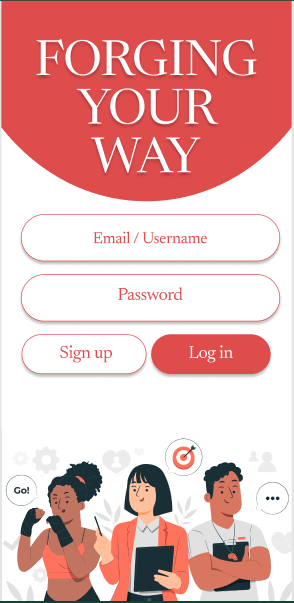
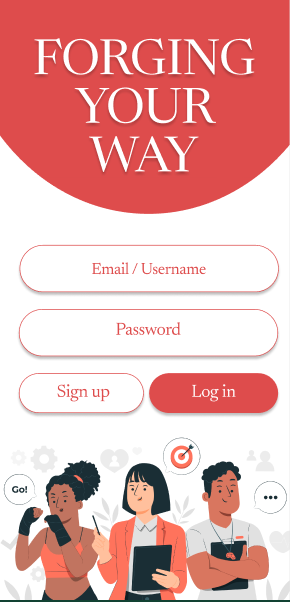
update mainscreen and add labels in prototype

diff --git a/README.md b/README.md
@@ -6,8 +6,8 @@ A flutter based career counseling app.
 
 | | | |
 |:-------------------------:|:-------------------------:|:-------------------------:|
-|<img width="1604" alt="desktop" src="./dribbble-UI/communities_snip.png"> |  <img width="1604" alt="b_top, neofetch, tmux" src="./dribbble-UI/main_snip.png">|  <img width="1604" alt="b_top, neofetch, tmux" src="./dribbble-UI/consultation_snip.png">|
-|<img width="1604" alt="display-manager" src="./dribbble-UI/profile_snip.png">  |  <img width="1604" alt="rofi launcher" src="./dribbble-UI/dashboard_snip.png">|  <img width="1604" alt="b_top, neofetch, tmux" src="./dribbble-UI/settings_snip.png">|
+|<img width="1604" alt="" src="./dribbble-UI/communities_snip.png"> Community |  <img width="1604" alt="" src="./dribbble-UI/main_snip.png"> Main Screen |  <img width="1604" alt="" src="./dribbble-UI/consultation_snip.png"> Consultation |
+|<img width="1604" alt="" src="./dribbble-UI/profile_snip.png"> Profile |  <img width="1604" alt="" src="./dribbble-UI/dashboard_snip.png"> Dashboard |  <img width="1604" alt="" src="./dribbble-UI/settings_snip.png"> Settings |
 
 # Contributors
 
